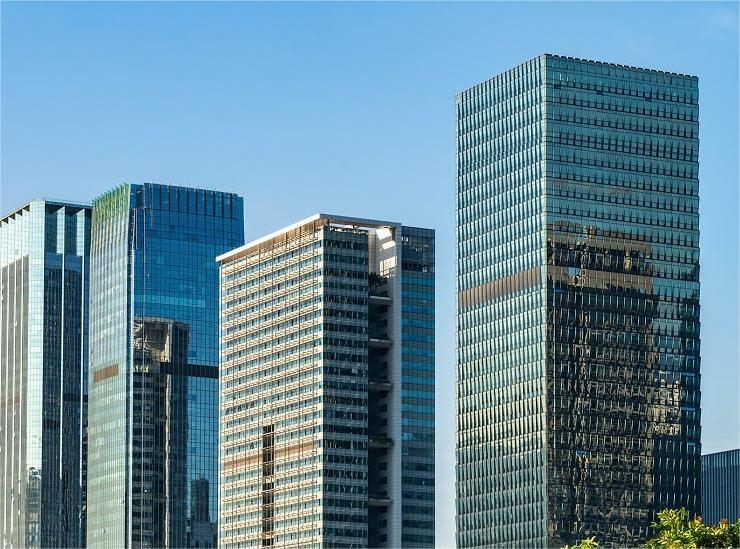
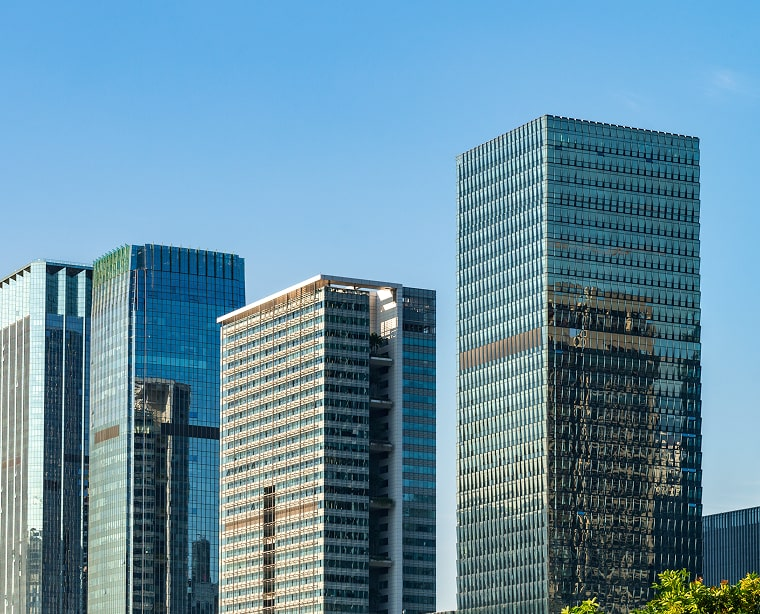
style: add font family

diff --git a/week3/flexbox1.html b/week3/flexbox1.html
@@ -6,36 +6,73 @@
     <meta name="viewport" content="width=device-width, initial-scale=1.0">
     <title>flexbox</title>
     <style>
+        body {
+            background-color:
+                #f6f5ef;
+        }
+
         .dailou {
             display: flex;
-            background-color: rgb(186, 157, 157);
+
             justify-content: center;
-            ;
+            gap: 20px;
 
         }
 
         .dailou div {
+            background-color: #ffffff;
+            padding: 15px;
+            border-radius: 10px;
             width: calc(100% / 3);
             margin: auto;
+        }
+
+        .residential img {
+            width: 100%;
+            border-radius: 10px;
+        }
+
+        .residential h1 {
+            font-family: "Oxygen", sans-serif;
+        }
+
+
+        .commercial img {
+            width: 100%;
+            border-radius: 10px;
+        }
+
+        .commercial h1 {
+            font-family: "Oxygen", sans-serif;
+        }
+
+        .infrastructure img {
+            width: 100%;
+            border-radius: 10px;
+        }
+
+        .infrastructure h1 {
+            font-family: "Oxygen", sans-serif;
         }
     </style>
 </head>
 
 <body>
     <div class="dailou">
-        <div class="residential"><img src="image/1.jpg" alt="residential" width="350px" height="300">
+        <div class="residential">
+            <img src="image/1.jpg" alt="residential">
             <h1>residential</h1>
             <p>blabla</p>
         </div>
-        <div class="commercial"><img src="image/2.jpg" alt="commercial" width="350px" height="300px">
+        <div class="commercial">
+            <img src="image/2.jpg" alt="commercial">
             <h1>residential</h1>
-            <p>blabla
-            </p>
+            <p>blabla </p>
         </div>
-        <div class="infrastructure"><img src="image/3.jpg" alt="infrastructure" width="350px" height="300px">
+        <div class="infrastructure">
+            <img src="image/3.jpg" alt="infrastructure">
             <h1>residential</h1>
-            <p>blabla
-            </p>
+            <p>blabla</p>
         </div>
     </div>
 </body>
